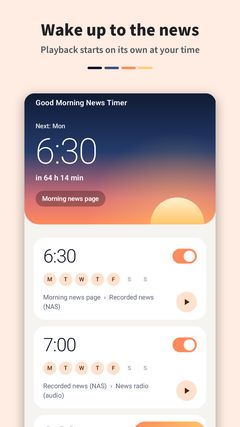
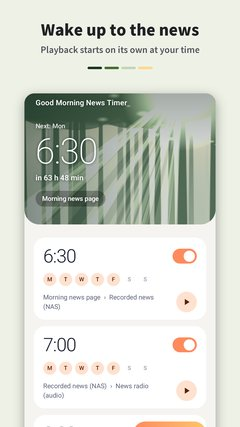
おはようニュースタイマー：背景を朝の森にした画面の画像に替える
- 使い方のページの画像（ホーム・許可・予定の編集・時刻・時計と天気の位置・再生を待つ画面・止めたあとの画面）を撮り直す
- 紹介ページとトップページのスクリーンショットを、新しいストアの画像に替える
- 再生を待つ画面の説明を「夜明けの空」から「光の差し込む朝の森」に直す

Changed region(s): [[0.0875, 0.2131, 0.9042, 0.548], [0.4375, 0.1522, 0.5833, 0.1827], [0.3792, 0.1522, 0.4083, 0.1827]]

diff --git a/morning-news/manual.html b/morning-news/manual.html
@@ -72,7 +72,7 @@
 <img class="shot" src="images/manual/waiting.jpg" width="540" height="1200" loading="lazy" alt="音が出るまでの画面">
 <img class="shot" src="images/manual/player.jpg" width="540" height="1200" loading="lazy" alt="再生の画面">
 </div>
-<p>音が出るまでは、夜明けの空と時計（左）が出ます。画面を押すと、後ろのページを見られます。音が出ると再生の画面（右）に変わります。</p>
+<p>音が出るまでは、光の差し込む朝の森と時計（左）が出ます。画面を押すと、後ろのページを見られます。音が出ると再生の画面（右）に変わります。</p>
 <ol>
 <li>いま再生している情報源やファイルの名前です</li>
 <li><strong>矢印が 4 つのボタン</strong>：時計と天気の位置と大きさを変えます（<a href="#display">9.</a>）</li>
